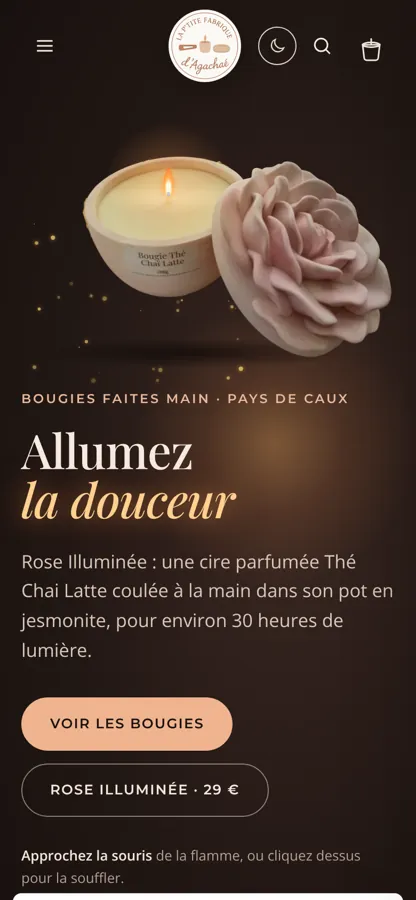
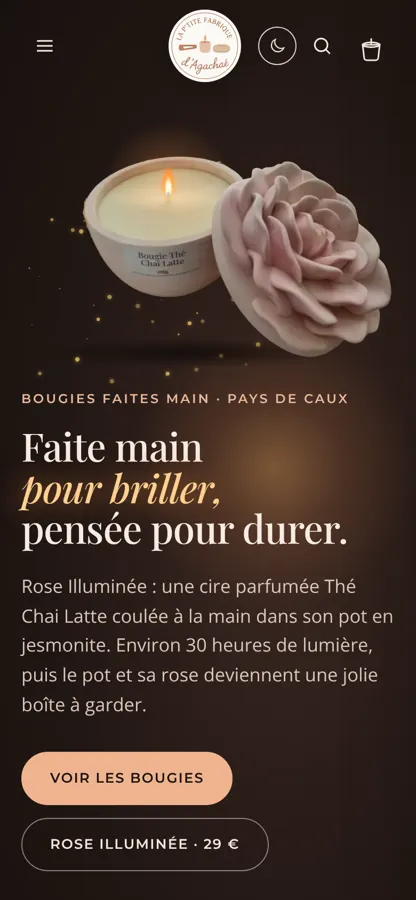
Lumière : nouveau titre, la bougie se rallume d'un clic

diff --git a/lumiere.html b/lumiere.html
@@ -83,8 +83,9 @@ header.site .wrap { display: grid; grid-template-columns: 1fr auto 1fr; align-it
 .hero-grid { position: relative; display: grid; grid-template-columns: .9fr 1.1fr; gap: 30px; align-items: center; padding-top: 70px; transform: translateY(calc(var(--p, 0) * -70px)); }
 .hero-text { opacity: calc(1 - var(--p, 0) * 1.4); }
 .hero .eyebrow { color: #e9b99c; }
-.hero h1 { color: #f6ebe1; font-size: clamp(2.8rem, 6.4vw, 5.6rem); font-weight: 500; line-height: 1.02; margin: 18px 0 22px; letter-spacing: -.015em; }
-.hero h1 em { display: inline-block; color: #8d7a70; transition: color 1.4s ease, text-shadow 1.4s ease; }
+.hero h1 { color: #f6ebe1; font-size: clamp(2.3rem, 3.9vw, 3.75rem); font-weight: 500; line-height: 1.04; margin: 18px 0 22px; letter-spacing: -.015em; }
+.hero h1 > span, .hero h1 > em { display: block; }
+.hero h1 em { color: #8d7a70; transition: color 1.4s ease, text-shadow 1.4s ease; }
 .hero.lit h1 em { color: #ffcf8f; text-shadow: 0 0 24px rgba(255, 170, 90, .55), 0 0 60px rgba(255, 140, 60, .3); }
 .hero .lead { color: #d8c6b9; max-width: 44ch; font-size: 1.08rem; }
 .hero .btns { display: flex; gap: 12px; flex-wrap: wrap; margin-top: 30px; }
@@ -114,7 +115,8 @@ header.site .wrap { display: grid; grid-template-columns: 1fr auto 1fr; align-it
 .match .mfl .flm { --fw: 12px; }
 .spark { position: absolute; width: 4px; height: 4px; border-radius: 50%; background: #ffd58a; box-shadow: 0 0 8px 2px rgba(255, 170, 70, .9); pointer-events: none; z-index: 6; }
 .smoke { position: absolute; width: 14px; height: 14px; border-radius: 50%; pointer-events: none; z-index: 6; background: radial-gradient(circle, rgba(230, 220, 210, .55), rgba(230, 220, 210, 0) 70%); }
-.blow { position: absolute; left: 39.3%; top: 20%; width: 13%; height: 18%; transform: translate(-50%, -50%); border: 0; background: transparent; border-radius: 50%; cursor: pointer; z-index: 7; }
+.stage:not(.lit) { cursor: pointer; }
+.blow { position: absolute; left: 39.3%; top: 23%; width: 15%; height: 26%; transform: translate(-50%, -50%); border: 0; background: transparent; border-radius: 50%; cursor: pointer; z-index: 7; }
 .blow:focus-visible { outline: 2px dashed #ffcf8f; }
 .scroll-cue { position: absolute; left: 50%; bottom: 26px; transform: translateX(-50%); display: grid; justify-items: center; gap: 8px; font: 600 11px/1 var(--f-label); letter-spacing: .16em; text-transform: uppercase; color: #a8958a; opacity: calc(1 - var(--p, 0) * 3); }
 .scroll-cue i { width: 1px; height: 38px; background: linear-gradient(#a8958a, transparent); animation: cue 2s ease-in-out infinite; transform-origin: top; }
@@ -336,8 +338,8 @@ footer.site .legal { border-top: 1px solid rgba(255, 255, 255, .12); margin-top:
       <div class="wrap hero-grid">
         <div class="hero-text">
           <p class="eyebrow">Bougies faites main · Pays de Caux</p>
-          <h1 id="h1">Allumez <em>la douceur</em></h1>
-          <p class="lead">Rose Illuminée : une cire parfumée Thé Chai Latte coulée à la main dans son pot en jesmonite, pour environ 30 heures de lumière.</p>
+          <h1 id="h1"><span>Faite main</span> <em>pour briller,</em> <span>pensée pour durer.</span></h1>
+          <p class="lead">Rose Illuminée : une cire parfumée Thé Chai Latte coulée à la main dans son pot en jesmonite. Environ 30 heures de lumière, puis le pot et sa rose deviennent une jolie boîte à garder.</p>
           <div class="btns"><a class="btn" href="#bougies">Voir les bougies</a><button class="btn ghost" data-add="rose-illuminee">Rose Illuminée · 29 €</button></div>
           <p class="hint" id="hint"><b>Approchez la souris</b> de la flamme, ou cliquez dessus pour la souffler.</p>
         </div>
@@ -642,9 +644,10 @@ footer.site .legal { border-top: 1px solid rgba(255, 255, 255, .12); margin-top:
   function blowOut() {
     timers.forEach(clearTimeout); timers = [];
     heroFlame.classList.remove('on'); stage.classList.remove('lit'); hero.classList.remove('lit'); smoke();
-    hint.innerHTML = TOUCH ? 'Soufflée. <b>Touchez la mèche</b> pour la rallumer.' : 'Soufflée. <b>Cliquez sur la mèche</b> pour la rallumer.';
+    hint.innerHTML = TOUCH ? 'Soufflée. <b>Touchez la bougie</b> pour la rallumer.' : 'Soufflée. <b>Cliquez sur la bougie</b> pour la rallumer.';
   }
-  $('#blow').addEventListener('click', () => (stage.classList.contains('lit') ? blowOut() : ignite()));
+  $('#blow').addEventListener('click', (e) => { e.stopPropagation(); stage.classList.contains('lit') ? blowOut() : ignite(); });
+  stage.addEventListener('click', () => { if (!stage.classList.contains('lit')) ignite(); });
   setTimeout(ignite, 400);
 
   // la flamme se penche quand on approche la souris
